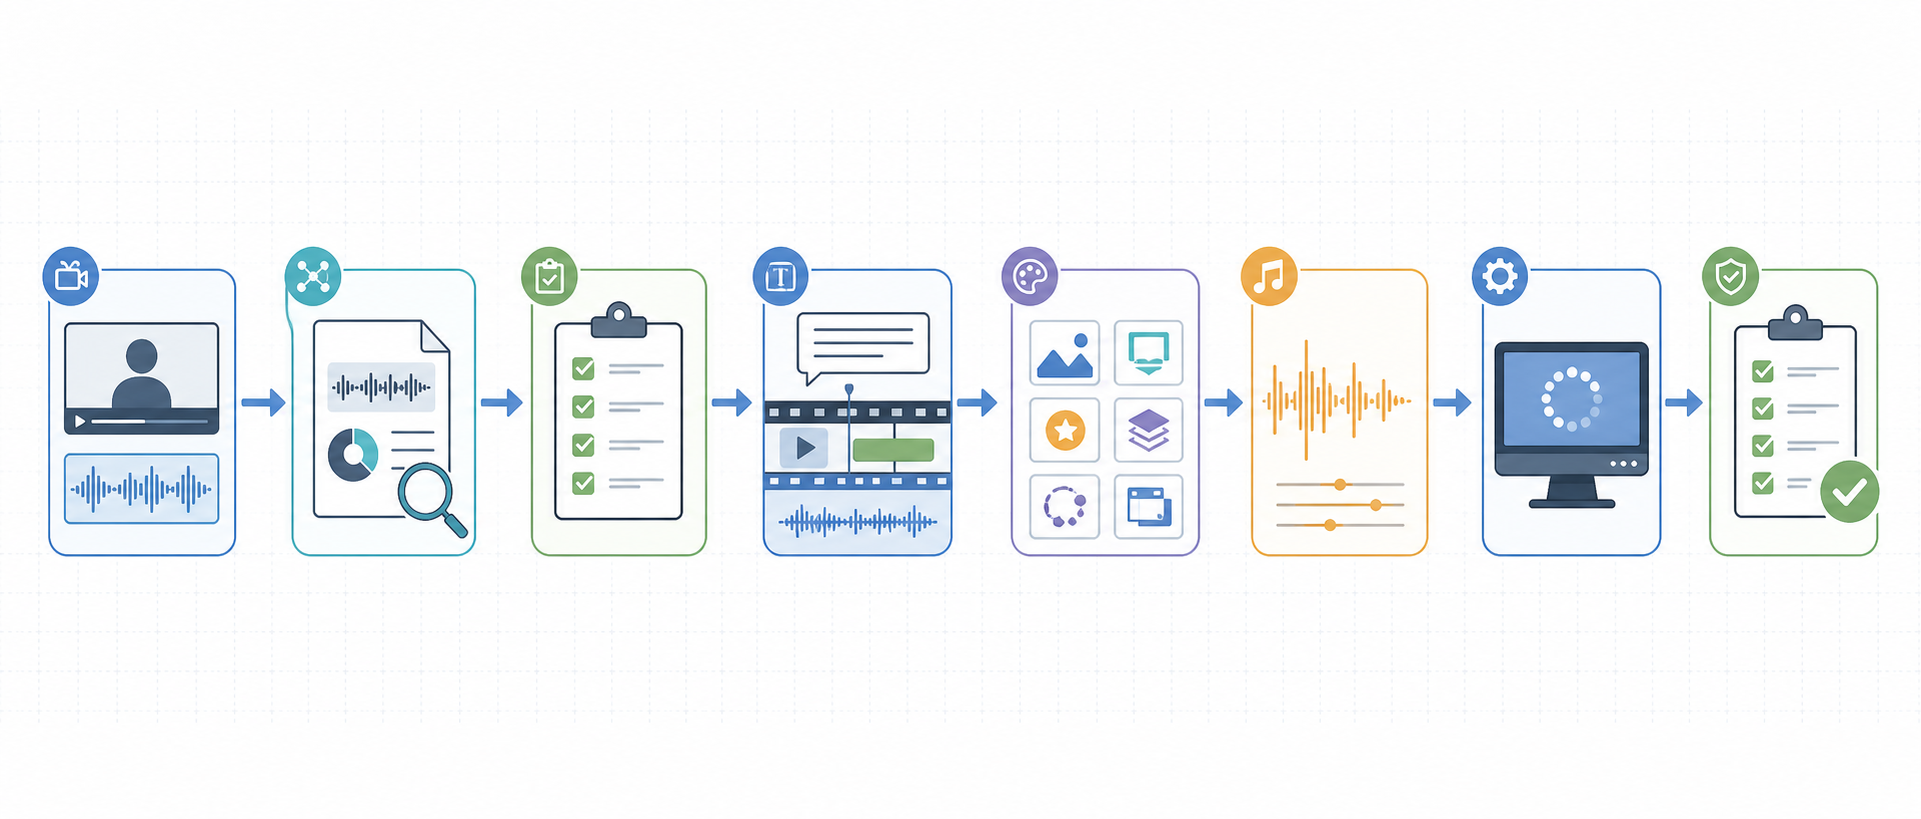
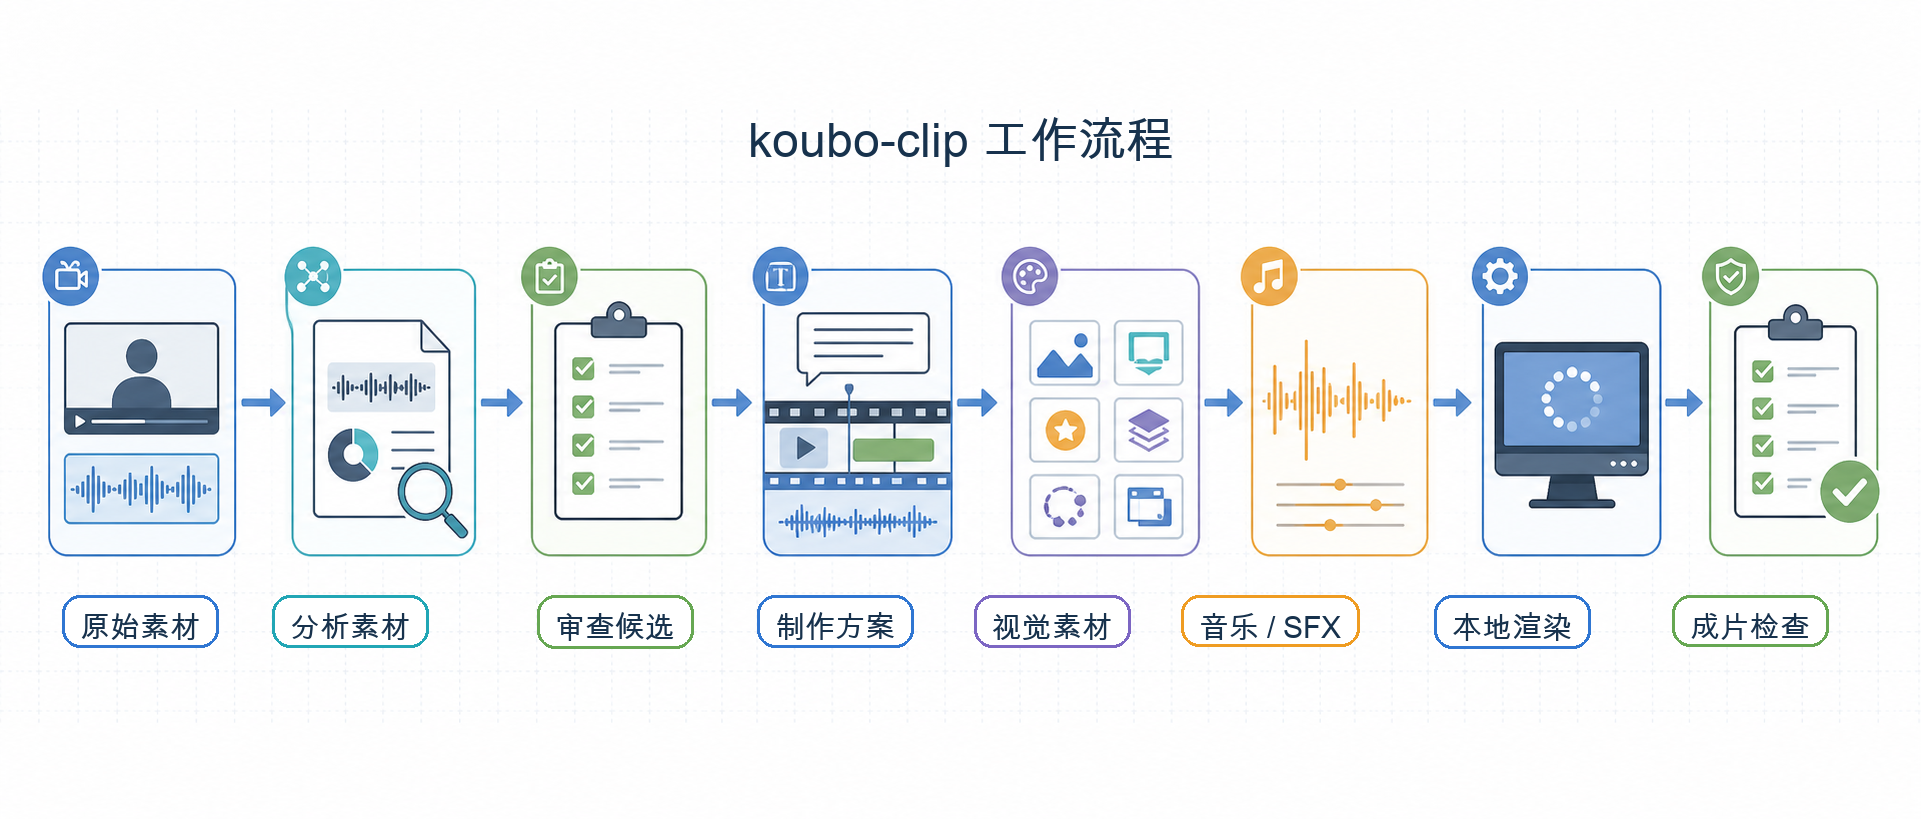
docs: update readme workflow assets

diff --git a/README.md b/README.md
@@ -50,7 +50,7 @@ koubo-clip is not a full NLE or a black-box AI video generator. It is not design
 
 ## Workflow
 
-![koubo-clip workflow](docs/assets/readme-cn-workflow.png)
+![koubo-clip workflow](docs/assets/readme-en-workflow.png)
 
 A typical flow:
 